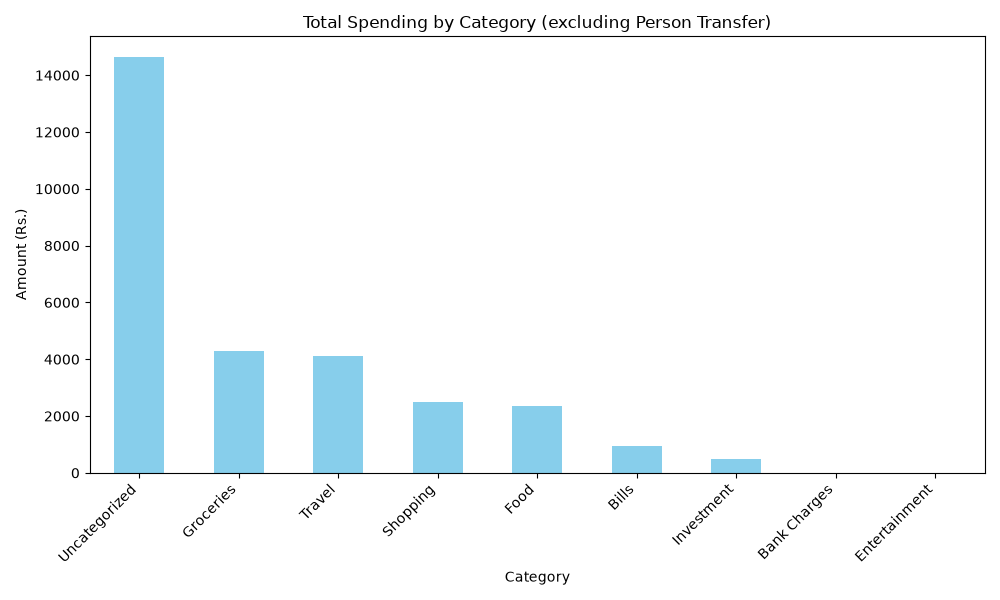
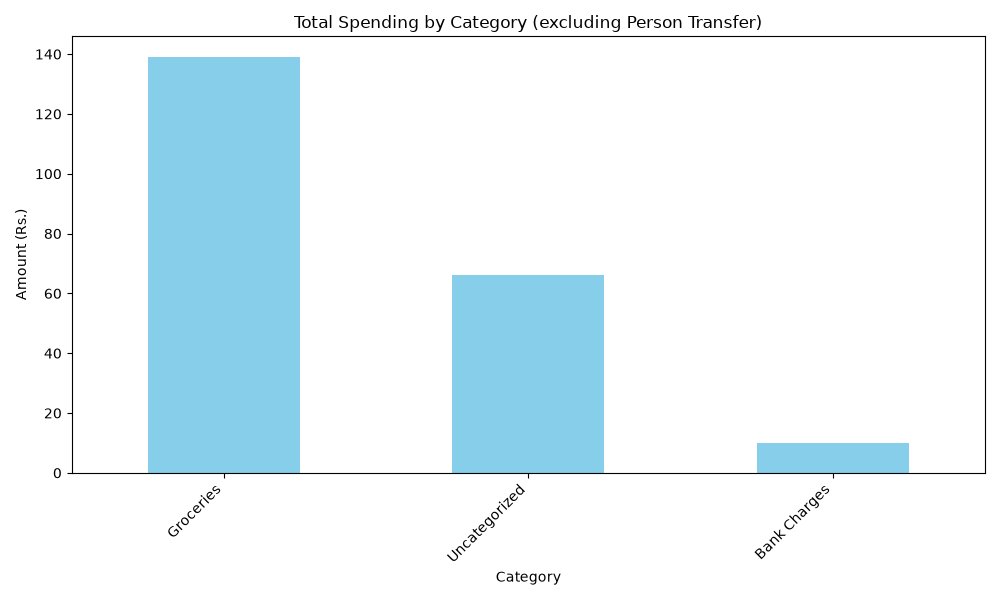
Add cloud MySQL (Aiven) support with SSL

diff --git a/src/database.py b/src/database.py
@@ -10,22 +10,31 @@ load_dotenv()
 DB_USER = os.getenv("DB_USER")
 DB_PASSWORD = os.getenv("DB_PASSWORD")
 DB_HOST = os.getenv("DB_HOST")
+DB_PORT = os.getenv("DB_PORT", "3306")
 DB_NAME = os.getenv("DB_NAME")
 
-# URL.create() automatically special characters (@, #, etc.) ko safely encode karta hai
 DATABASE_URL = URL.create(
     drivername="mysql+pymysql",
     username=DB_USER,
     password=DB_PASSWORD,
     host=DB_HOST,
+    port=int(DB_PORT),
     database=DB_NAME,
 )
 
-engine = create_engine(DATABASE_URL)
+# Aiven ko SSL certificate chahiye connection ke liye
+connect_args = {
+    "ssl": {
+        "ca": "certs/ca.pem"
+    }
+}
+
+engine = create_engine(DATABASE_URL, connect_args=connect_args)
 SessionLocal = sessionmaker(bind=engine)
 Base = declarative_base()
 
-# ---------- TABLES ----------
+
+# ---------- TABLES (same rahenge, koi change nahi) ----------
 
 class User(Base):
     __tablename__ = "users"
@@ -71,8 +80,6 @@ class Transaction(Base):
     
     statement = relationship("Statement", back_populates="transactions")
 
-
-# ---------- CREATE TABLES ----------
 
 def init_db():
     Base.metadata.create_all(bind=engine)

diff --git a/src/report_generator.py b/src/report_generator.py
@@ -87,7 +87,7 @@ def generate_pdf_report(df, account_details, output_path="reports/finance_report
     # ---------- Spending Summary Section ----------
     story.append(Paragraph("Spending Summary", styles["Heading2"]))
     
-    spend_df = df[df["Withdrawal"] > 0]
+    spend_df = df[(df["Withdrawal"] > 0) & (df["Category"] != "Person Transfer")]
     total_spend = spend_df["Withdrawal"].sum()
     
     # Statement ka date range nikalo — kitne mahine ka data hai
